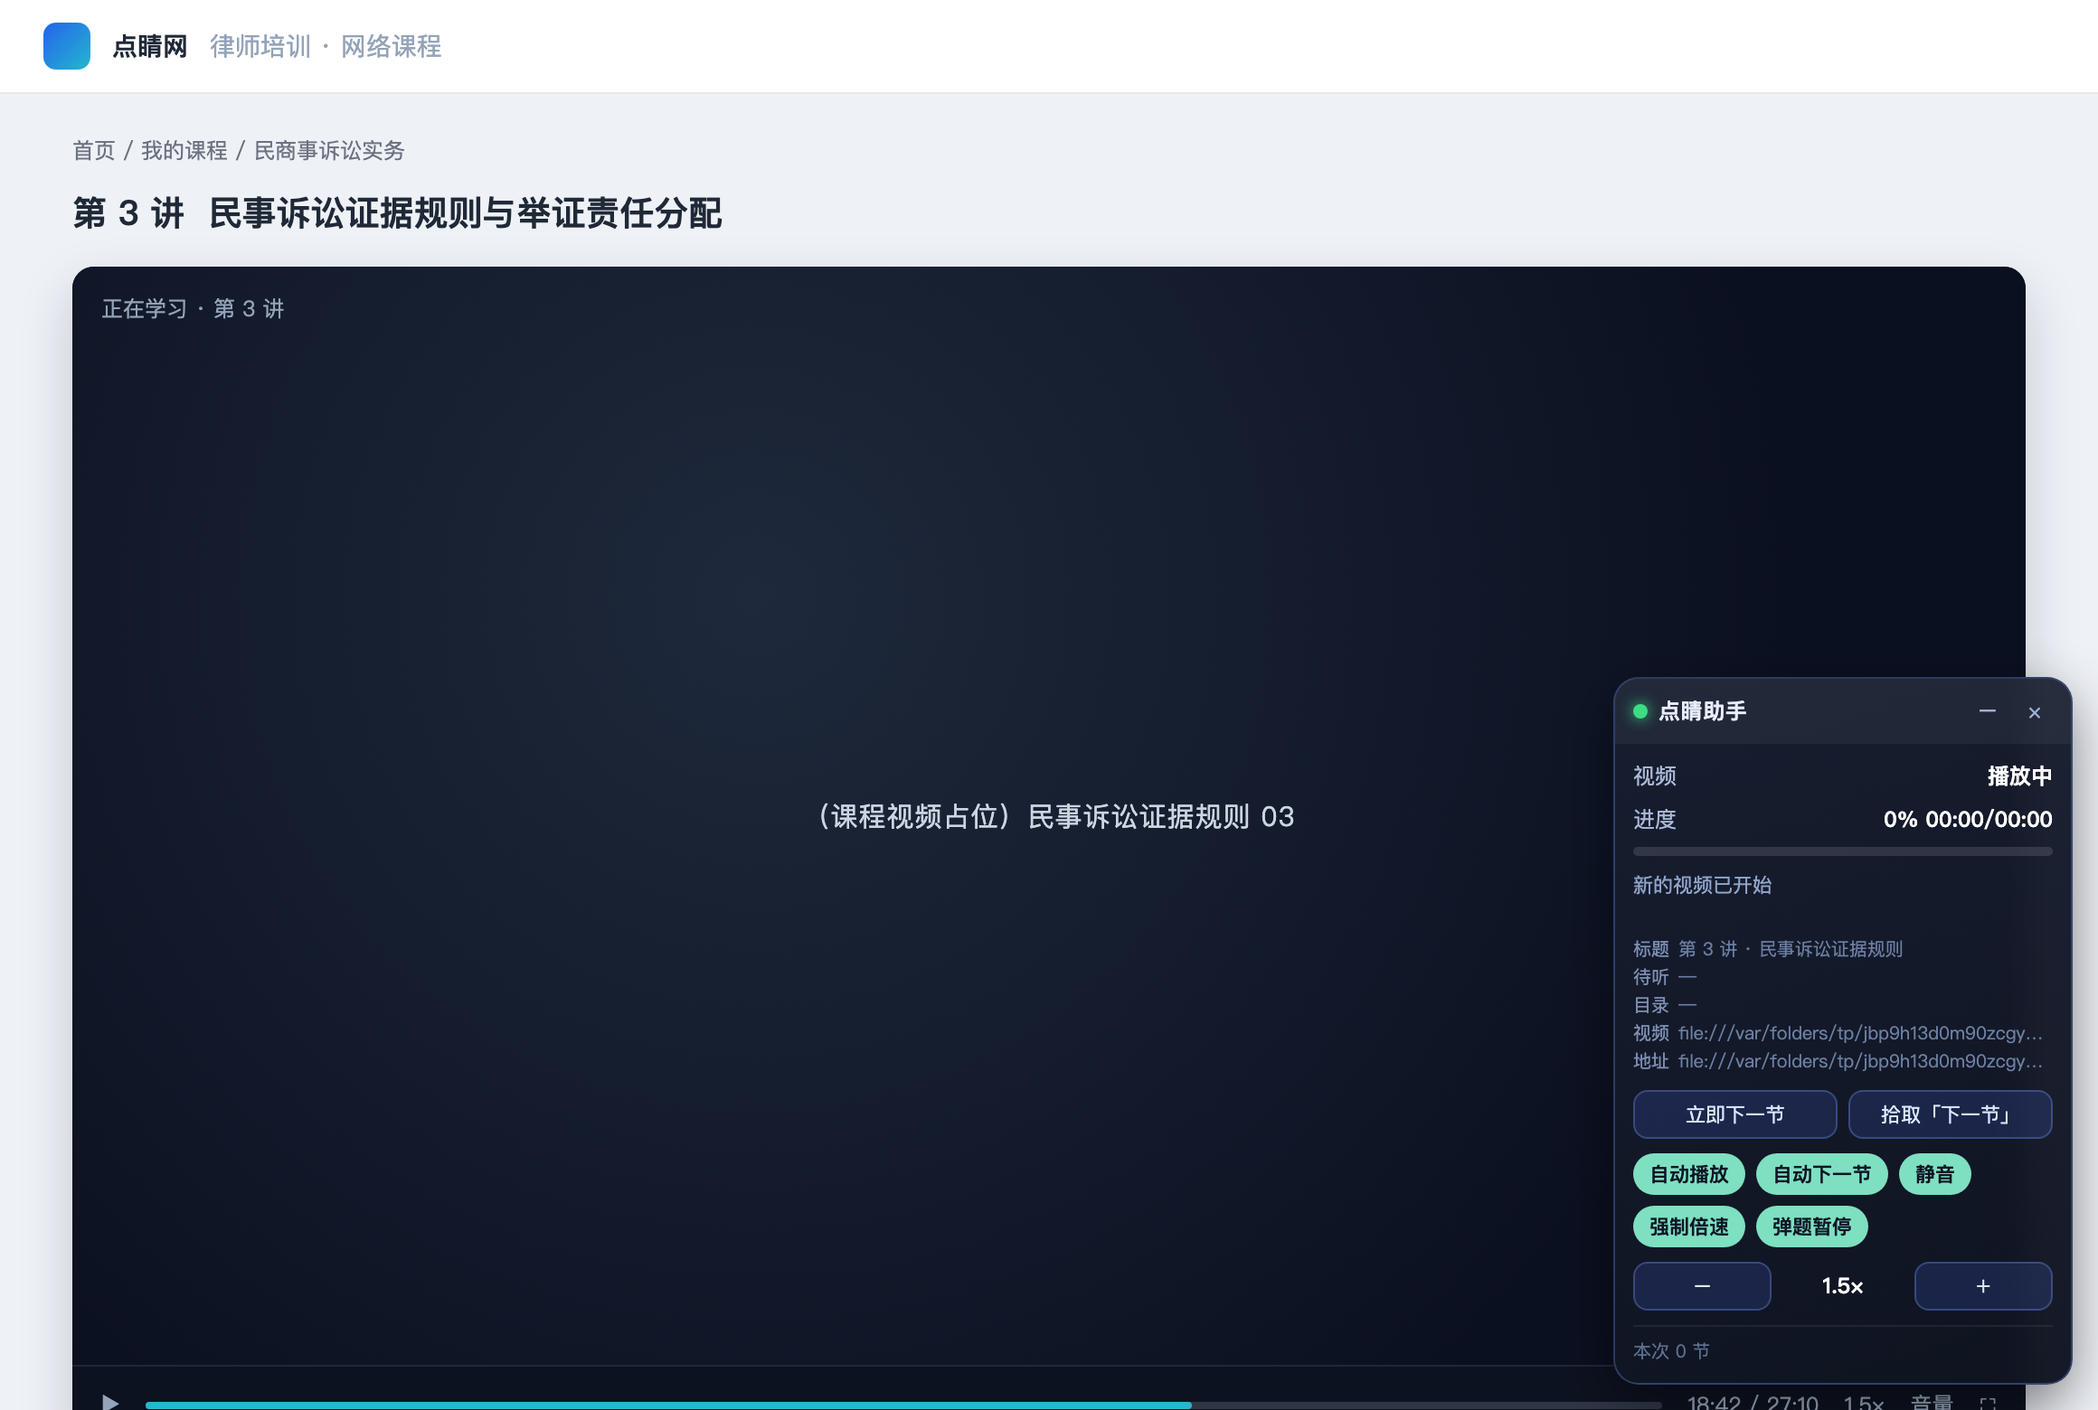
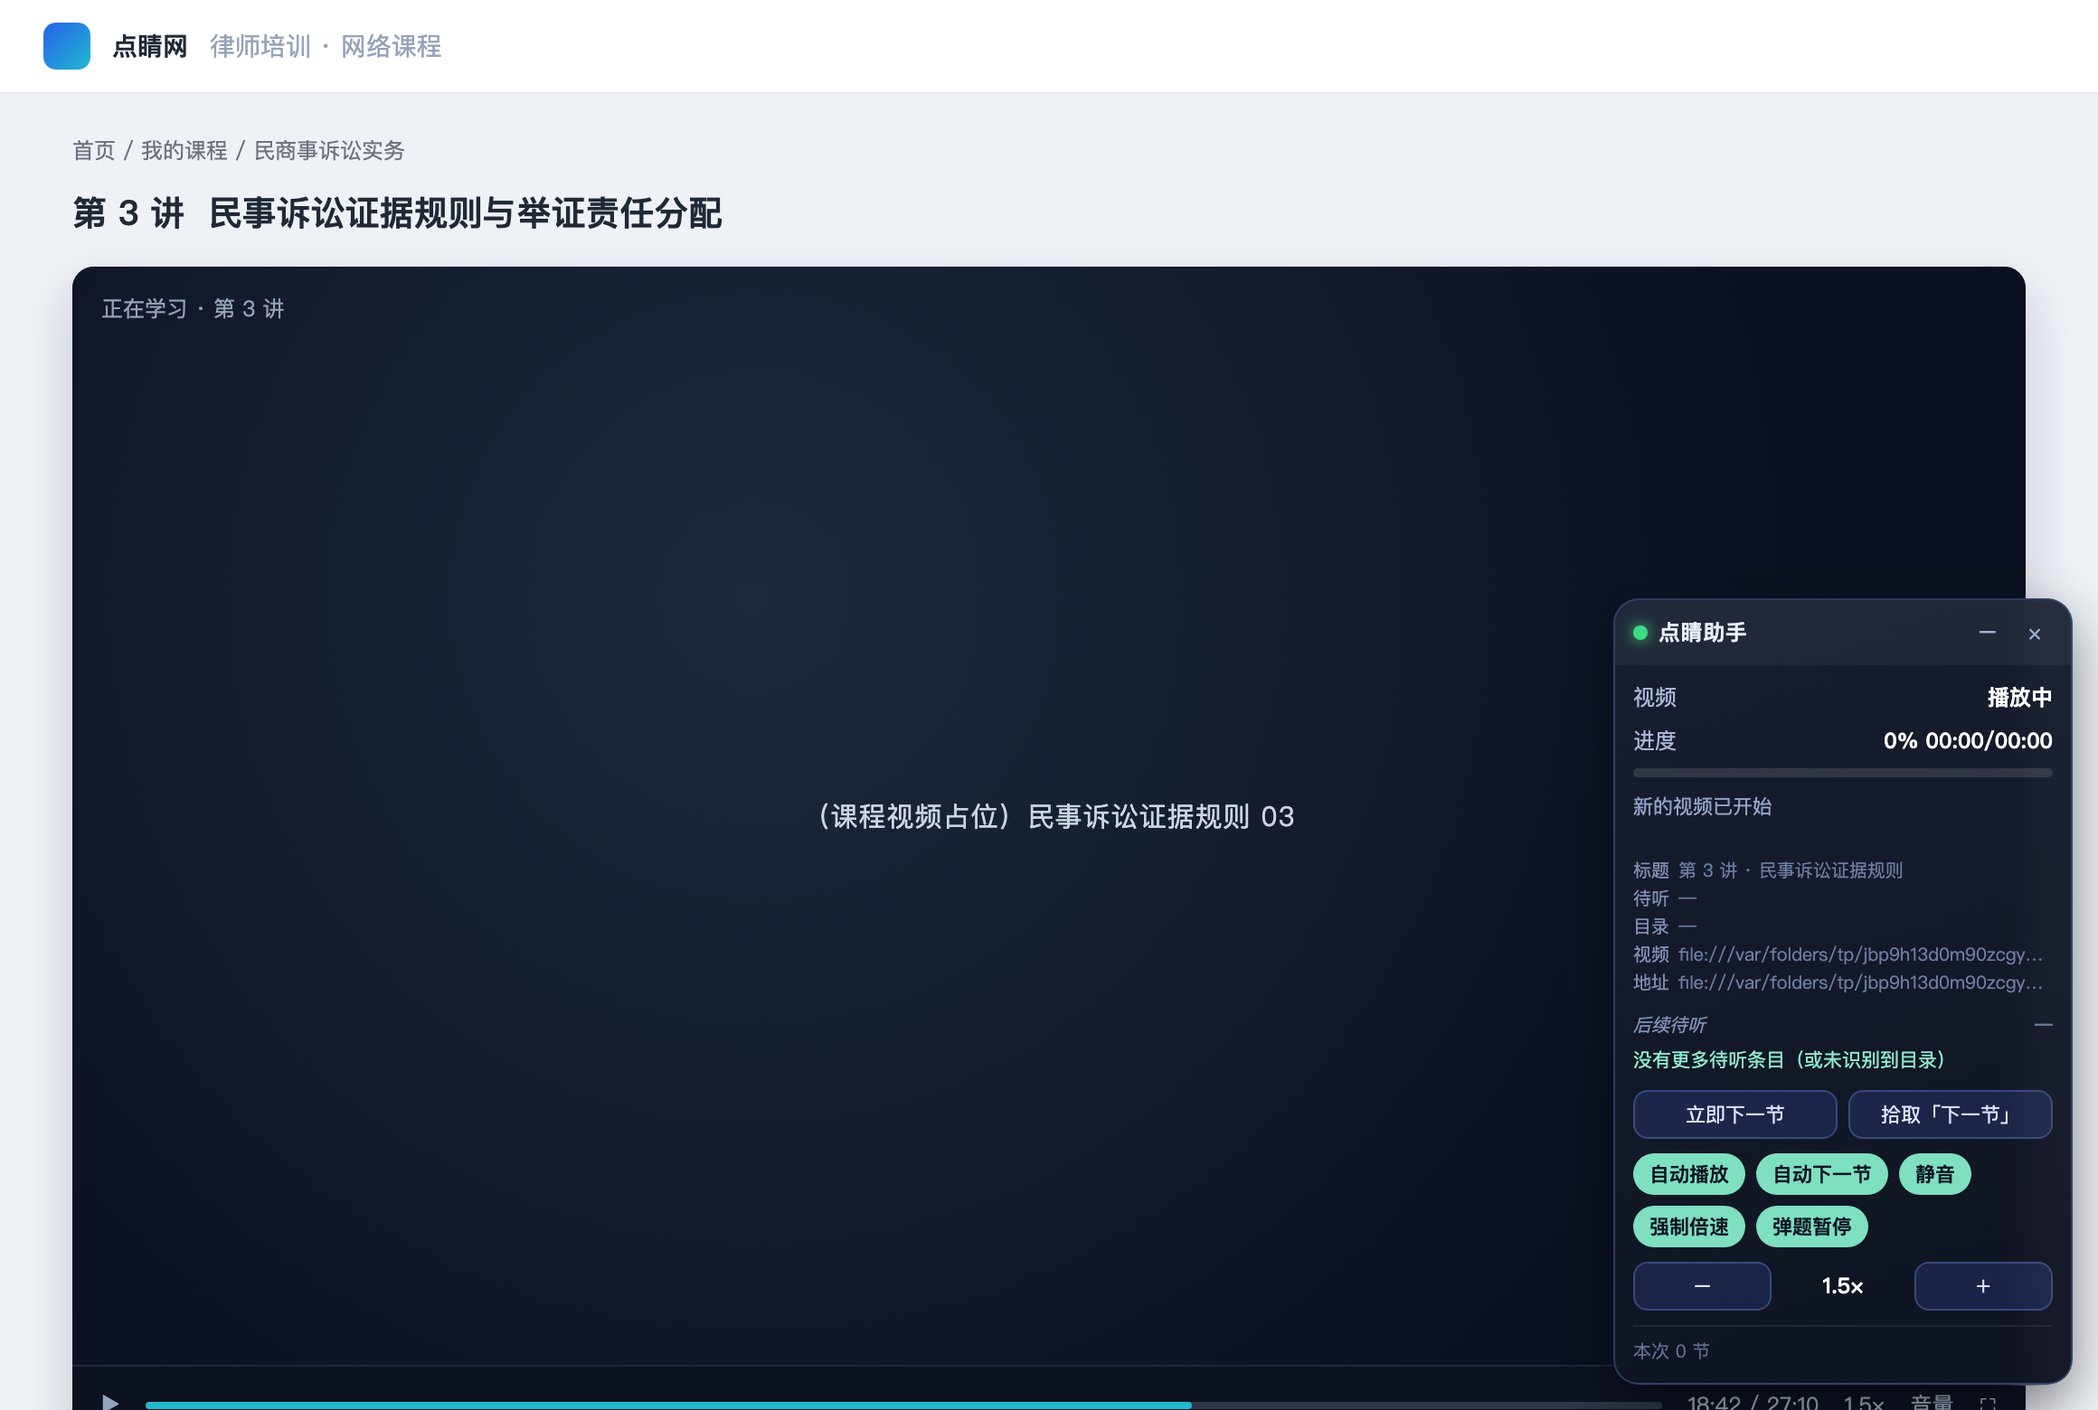
feat: 面板与弹窗列出「后续待听」全部条目（v1.4.0）
- catalogSeries()：按播放顺序汇总右侧目录（含未展开章节、通用目录），标出当前项
- catalogPeek/snapshot 新增 upcoming（当前节之后最多 80 条，编号+标题，去掉时长尾巴）与 upcomingTotal
- 面板新增可滚动的「后续待听」列表，弹窗新增「后续待听」卡片，标题悬停看全文
- 列表项去掉与编号重复的标题前缀
- 测试新增后续列表与总数断言（共 54 项）

Changed region(s): [[0.7759, 0.4, 1.0, 0.7692]]

diff --git a/src/content.js b/src/content.js
@@ -9,7 +9,7 @@
   if (window.__DJZK_LOADED__) return;
   window.__DJZK_LOADED__ = true;
 
-  const VERSION = '1.3.0';
+  const VERSION = '1.4.0';
   const HOST_OK = (/(^|\.)zfwx\.com$/i.test(location.hostname) ||
     /(^|\.)dianjingyun\.com$/i.test(location.hostname)) ||
     location.hostname === 'localhost' || window.__DJZK_FORCE__ === true;
@@ -454,19 +454,86 @@
   }
 
   /* 只读：当前节 / 下一节，用于面板与弹窗展示「识别结果」 */
+  /* 目录条目文本：去掉 <em>105.1分钟/2.33课时</em> 这类时长尾巴 */
+  function cleanItemText(el) {
+    const src = (el && el.querySelector && el.querySelector('p.name')) || el;
+    if (!src) return '';
+    let t = '';
+    for (const n of src.childNodes) {
+      if (n.nodeType === 3) t += n.nodeValue;
+      else if (n.tagName === 'SPAN' || n.tagName === 'A') t += n.textContent || '';
+    }
+    return norm(t || src.textContent || '').slice(0, 90);
+  }
+
+  /* 整个目录（按播放顺序），并标出当前项——给「后续待听」列表用 */
+  function stripLabel(label, text) {
+    if (!label) return text || '';
+    const esc = String(label).replace(/[.*+?^${}()|[\]\\]/g, '\\$&');
+    return String(text || '').replace(new RegExp('^' + esc + '\\s*[|｜]?\\s*'), '');
+  }
+
+  function catalogSeries() {
+    const on = (el) => /(^|\s)on(\s|$)/.test(String((el && el.className) || '')) ||
+      (el && el.getAttribute('data-status') === 'bofang');
+    const items = [];
+    const box = document.querySelector('.play_playerMLBox');
+    if (box) {
+      for (const ci of box.querySelectorAll('.courseItem')) {
+        const rows = [...ci.querySelectorAll('.rightCatalogList li')];
+        if (rows.length) {
+          for (const li of rows) items.push({ label: lessonLabelText(li), text: cleanItemText(li), active: on(li) });
+        } else {
+          const head = ci.querySelector('h3.courseName') || ci.querySelector('h3');
+          if (head) items.push({ label: lessonLabelText(head), text: cleanItemText(head), active: on(head) });
+        }
+      }
+      if (items.length) {
+        const indexed = items.map((it, i) => ({ label: it.label, text: it.text, active: it.active, i }));
+        const first = indexed.findIndex((x) => x.active);
+        return { items: indexed.map(({ label, text }) => ({ label, text })), curIndex: first };
+      }
+    }
+    /* 通用目录：所有「1.2」这类编号条目，按编号排序 */
+    const seen = new Set();
+    const list = [];
+    for (const el of document.querySelectorAll('li,a,div,span,p')) {
+      const l = lessonLabelOf(el);
+      if (!l) continue;
+      let nested = false;
+      for (const c of el.children) { if (lessonLabelOf(c)) { nested = true; break; } }
+      if (nested) continue;
+      const key = l.join('.');
+      if (seen.has(key)) continue;
+      seen.add(key);
+      list.push({ l, label: l.join('.'), text: cleanItemText(el) });
+    }
+    list.sort((a, b) => cmpLabel(a.l, b.l));
+    let curIndex = -1;
+    const cur = pageLessonLabel();
+    if (cur) curIndex = list.findIndex((x) => cmpLabel(x.l, cur) === 0);
+    return { items: list.map(({ label, text }) => ({ label, text })), curIndex };
+  }
+
   function catalogPeek() {
     try {
-      const box = document.querySelector('.play_playerMLBox');
-      if (box) {
-        const zf = zfwxCatalogNext();
-        const rows = [...box.querySelectorAll('.rightCatalogList li')];
-        const cur = rows.find((li) => /(^|\s)on(\s|$)/.test(String(li.className || '')) || li.getAttribute('data-status') === 'bofang');
-        return { cur: cur ? lessonLabelText(cur) : '', next: (zf && zf.label) || '', nextText: (zf && zf.text) || '' };
-      }
-      const g = catalogNext();
-      return { cur: (pageLessonLabel() || []).join('.'), next: (g && g.label) || '', nextText: (g && g.text) || '' };
+      const series = catalogSeries();
+      const items = series.items || [];
+      const curIndex = series.curIndex;
+      const curItem = items[curIndex];
+      const rest = curIndex >= 0 ? items.slice(curIndex + 1) : items.slice();
+      const zf = document.querySelector('.play_playerMLBox') ? zfwxCatalogNext() : null;
+      const g = zf ? null : catalogNext();
+      return {
+        cur: (curItem && curItem.label) || (pageLessonLabel() || []).join('.'),
+        next: (zf && zf.label) || (g && g.label) || (rest[0] && rest[0].label) || '',
+        nextText: (zf && zf.text) || (g && g.text) || (rest[0] && rest[0].text) || '',
+        upcoming: rest.slice(0, 80),
+        upcomingTotal: rest.length,
+        curIndex
+      };
     } catch (e) {
-      return { cur: '', next: '', nextText: '' };
+      return { cur: '', next: '', nextText: '', upcoming: [], upcomingTotal: 0, curIndex: -1 };
     }
   }
 
@@ -703,6 +770,8 @@
       catalogCur: peek.cur,
       catalogNext: peek.next,
       nextText: peek.nextText,
+      upcoming: peek.upcoming || [],
+      upcomingTotal: peek.upcomingTotal || 0,
       hasVideo: !!v,
       playing: !!(v && !v.paused && !v.ended),
       ended: !!(v && v.ended),
@@ -795,6 +864,15 @@
         .mrow{display:flex;gap:5px;line-height:1.55}
         .mrow i{font-style:normal;flex:none;color:#7e8fb3}
         .mrow span{flex:1;min-width:0;overflow:hidden;text-overflow:ellipsis;white-space:nowrap}
+        .up{margin:0 0 8px}
+        .up-h{display:flex;justify-content:space-between;font-size:10px;color:#7e8fb3;margin-bottom:3px}
+        .up-h b{font-weight:500;color:#6d80a2}
+        .up-list{list-style:none;margin:0;padding:0;max-height:132px;overflow:auto;font-size:10.5px;line-height:1.5}
+        .up-list li{display:flex;gap:4px;padding:1px 0;color:#a9b8d4}
+        .up-list li b{flex:none;color:#6d80a2;font-weight:500;min-width:22px}
+        .up-list li span{min-width:0;overflow:hidden;text-overflow:ellipsis;white-space:nowrap}
+        .up-list li:first-child{color:#8fe9cd}
+        .up-list .none{color:#5f7091}
         .rowbtns{display:flex;gap:6px;margin-bottom:8px}
         button.b{flex:1;border:1px solid rgba(120,160,255,.3);background:rgba(80,120,255,.16);color:#dce7ff;
                  border-radius:8px;padding:5px 4px;cursor:pointer;font-size:11px;font-family:inherit}
@@ -828,6 +906,10 @@
             <div class="mrow"><i>视频</i><span data-f="videoSrc">—</span></div>
             <div class="mrow"><i>地址</i><span data-f="href">—</span></div>
           </div>
+          <div class="up">
+            <div class="up-h"><i>后续待听</i><b data-f="upCount">—</b></div>
+            <ol class="up-list" data-f="upList"></ol>
+          </div>
           <div class="rowbtns">
             <button class="b" data-act="next">立即下一节</button>
             <button class="b" data-act="pick">拾取「下一节」</button>
@@ -852,6 +934,7 @@
 
     const wrap = root.querySelector('.wrap');
     const $ = (sel) => root.querySelector(sel);
+    let lastUpSig = null;
 
     ui = {
       host,
@@ -893,6 +976,33 @@
           .filter(Boolean).join(' → ');
         cEl.textContent = catText || '—';
         cEl.title = catText;
+        const ups = Array.isArray(st.upcoming) ? st.upcoming : [];
+        const upSig = ups.map((u) => (u.label || '') + '|' + (u.text || '')).join('~');
+        if (upSig !== lastUpSig) {
+          lastUpSig = upSig;
+          const ol = $('[data-f="upList"]');
+          ol.textContent = '';
+          if (!ups.length) {
+            const li = document.createElement('li');
+            li.className = 'none';
+            li.textContent = st.hasVideo ? '没有更多待听条目（或未识别到目录）' : '未检测到视频';
+            ol.appendChild(li);
+          }
+          for (const u of ups) {
+            const li = document.createElement('li');
+            const b = document.createElement('b');
+            b.textContent = u.label || '';
+            const sp = document.createElement('span');
+            sp.textContent = stripLabel(u.label, u.text);
+            sp.title = u.text || '';
+            li.appendChild(b);
+            li.appendChild(sp);
+            ol.appendChild(li);
+          }
+        }
+        const upCount = st.upcomingTotal || ups.length;
+        $('[data-f="upCount"]').textContent = upCount ? upCount + ' 节' : '—';
+        $('[data-f="upCount"]').title = ups.length < upCount ? '仅列出前 ' + ups.length + ' 节' : '';
         $('[data-f="rate"]').textContent = fmtRate(st.rate || S.rate);
         $('[data-f="lessons"]').textContent = '本次 ' + lessonsDone + ' 节';
         $('.dot').classList.toggle('on', !!S.enabled);

diff --git a/src/popup.js b/src/popup.js
@@ -138,6 +138,48 @@ function setPill(text, cls) {
   p.className = 'pill' + (cls ? ' ' + cls : '');
 }
 
+let lastUpSig = null;
+
+function stripLabel(label, text) {
+  if (!label) return text || '';
+  const esc = String(label).replace(/[.*+?^${}()|[\]\\]/g, '\\$&');
+  return String(text || '').replace(new RegExp('^' + esc + '\\s*[|｜]?\\s*'), '');
+}
+
+/* 「1.2｜xxx」去掉重复的编号前缀 */
+
+
+/* 「后续待听」列表：只在不变化时跳过重建，避免每秒重排 */
+function renderUpcoming(st) {
+  const ups = Array.isArray(st && st.upcoming) ? st.upcoming : [];
+  const total = st && st.upcomingTotal != null ? st.upcomingTotal : ups.length;
+  const ol = $('#upList');
+  const empty = $('#upEmpty');
+  ol.hidden = !ups.length;
+  empty.hidden = !!ups.length;
+
+  const sig = ups.map((u) => (u.label || '') + '|' + (u.text || '')).join('~');
+  if (sig === lastUpSig) {
+    $('#upCount').textContent = total ? total + ' 节' : '—';
+    return;
+  }
+  lastUpSig = sig;
+  ol.textContent = '';
+  for (const u of ups) {
+    const li = document.createElement('li');
+    const b = document.createElement('b');
+    b.textContent = u.label || '';
+    const sp = document.createElement('span');
+    sp.textContent = stripLabel(u.label, u.text);
+    sp.title = u.text || '';
+    li.appendChild(b);
+    li.appendChild(sp);
+    ol.appendChild(li);
+  }
+  $('#upCount').textContent = total ? total + ' 节' : '—';
+  $('#upCount').title = ups.length < total ? '只列出前 ' + ups.length + ' 节' : '';
+}
+
 function renderState(rec) {
   lastState = rec && rec.state ? rec.state : null;
   const st = lastState;
@@ -152,6 +194,7 @@ function renderState(rec) {
     $('#rateNow').textContent = fmtRate(settings.rate);
     $('#lessons').textContent = '0';
     ['pgTitle', 'pgNext', 'pgCatalog', 'pgVideo', 'pgHref'].forEach((id) => { const el = $('#' + id); el.textContent = '—'; el.title = ''; });
+    renderUpcoming(null);
     $('#hint').textContent = tab && /^chrome-extension:/.test(tab.url)
       ? '这是设置页，打开点睛网听课页面即可看到实时状态。'
       : '当前页面没有运行脚本（可能不在点睛网，或需要刷新页面）。';
@@ -183,6 +226,8 @@ function renderState(rec) {
     .filter(Boolean).join(' → ');
   $('#pgCatalog').textContent = cat || '—';
   $('#pgCatalog').title = cat;
+
+  renderUpcoming(st);
 
   const parts = [];
   if (!st.enabled) parts.push('总开关已关闭');

diff --git a/src/popup.css b/src/popup.css
@@ -66,6 +66,19 @@ header {
 
 .hint { font-size: 10px; color: #6c7fa3; margin-top: 6px; line-height: 1.45; }
 
+.uplist {
+  list-style: none; margin: 2px 0 0; padding: 0;
+  max-height: 208px; overflow: auto;
+  font-size: 11px; line-height: 1.5;
+}
+.uplist li { display: flex; gap: 6px; padding: 3px 1px; border-top: 1px solid rgba(255, 255, 255, .045); color: #a9b8d4; }
+.uplist li:first-child { border-top: 0; color: #8fe9cd; }
+.uplist li b { flex: none; min-width: 24px; font-weight: 500; color: #6d80a2; font-variant-numeric: tabular-nums; }
+.uplist li:first-child b { color: #6fbfa6; }
+.uplist li span { min-width: 0; overflow: hidden; text-overflow: ellipsis; white-space: nowrap; }
+.label .cnt { float: right; font-size: 10px; font-weight: 400; color: #66799b; }
+.upempty { margin: 2px 0 0; }
+
 .pagemeta { margin-top: 7px; font-size: 10px; color: #6c7fa3; }
 .pagemeta > div { display: flex; gap: 5px; line-height: 1.55; }
 .pagemeta i { font-style: normal; color: #7e8fb3; flex: none; }

diff --git a/src/popup.html b/src/popup.html
@@ -43,6 +43,12 @@
   </section>
 
   <section class="card">
+    <div class="label">后续待听 <span class="cnt" id="upCount">—</span></div>
+    <ol class="uplist" id="upList"></ol>
+    <div class="hint upempty" id="upEmpty" hidden>未识别到目录，或已经到最后一节。</div>
+  </section>
+
+  <section class="card">
     <div class="label">倍速</div>
     <div class="rates" id="rates"></div>
     <label class="line">
@@ -96,7 +102,7 @@
 
   <footer>
     <span id="footNote">仅辅助播放，请遵守点睛网学习规则</span>
-    <span id="ver">v1.3.0</span>
+    <span id="ver">v1.4.0</span>
   </footer>
 
   <div class="toast" id="toast" hidden></div>

diff --git a/tools/preview.py b/tools/preview.py
@@ -37,6 +37,14 @@ window.chrome = {
       title: '1.1｜刑事涉案财产处置的困境及实务对策 - 点睛网',
       catalogCur: '1.1', catalogNext: '1.2',
       nextText: '1.2｜新公司法的资本充实责任圆桌谈',
+      upcoming: [
+        { label: '1.2', text: '1.2｜新公司法的资本充实责任圆桌谈' },
+        { label: '2.1', text: '2.1｜股东出资加速到期的认定' },
+        { label: '2.2', text: '2.2｜出资不实的举证责任分配' },
+        { label: '2.3', text: '2.3｜抽逃出资的刑民交叉问题' },
+        { label: '3.1', text: '3.1｜公司决议瑕疵的类型化' }
+      ],
+      upcomingTotal: 5,
       videoSrc: 'https://vod.dianjingyun.com/course/2024/1103/lesson-1.1-1080p.m3u8',
       nextIn: 0, quiz: false, lessons: 2, enabled: true, host: 'www.zfwx.com',
       msg: '锁定 1.5× · 播完自动下一节', href: 'https://www.zfwx.com/wxqt/package/course.do'

diff --git a/README.md b/README.md
@@ -46,6 +46,8 @@
 - **视频**：当前播放器的视频地址（`<video>` 的 `currentSrc`，HLS 时是 `.m3u8`）；
 - **地址**：当前页面 URL。
 
+面板和弹窗还各有一块「**后续待听**」列表，按右侧目录的播放顺序列出当前节之后的所有条目（编号 + 标题，去掉时长尾巴），第一行就是下一次会跳过去的条目；条数多时列表内部滚动，标题悬停可看全文。列表为空通常意味着识别不到目录（比如目录还在懒加载），此时「目录」一行也会是 `—`。
+
 ## 找不到「下一节」按钮？
 
 点睛网的按钮样式可能和插件内置的文案规则不一致，这时用「拾取」：
@@ -137,7 +139,7 @@ npm run preview
 npm run icons
 ```
 
-测试覆盖：面板注入、自动播放/静音/倍速、强制倍速（页面世界接管、实例改写、关闭后放开）、静音恢复、「下一节」识别与自动点击、跳过节数上报、随机等待区间与旧设置迁移、弹题暂停、设置联动、拾取优先级、目录模式（含高亮小节反推章节、折叠章节两步点击）、识别结果展示（标题/待听/目录/视频源）、后台状态汇总/命令路由/统计与清理（共 52 项断言）。
+测试覆盖：面板注入、自动播放/静音/倍速、强制倍速（页面世界接管、实例改写、关闭后放开）、静音恢复、「下一节」识别与自动点击、跳过节数上报、随机等待区间与旧设置迁移、弹题暂停、设置联动、拾取优先级、目录模式（含高亮小节反推章节、折叠章节两步点击）、识别结果展示（标题/待听/目录/视频源/后续待听列表）、后台状态汇总/命令路由/统计与清理（共 54 项断言）。
 
 目录结构：
 
